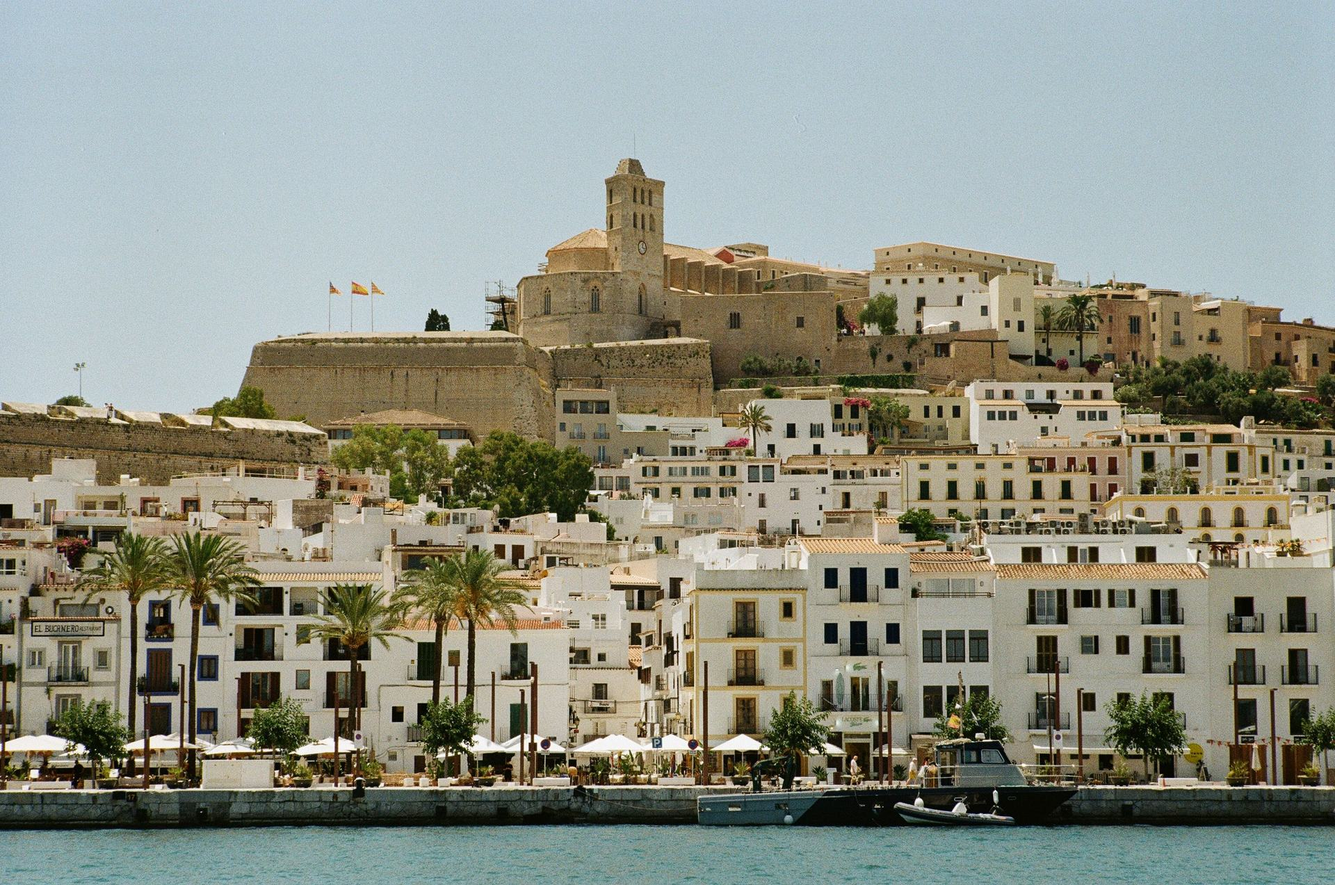
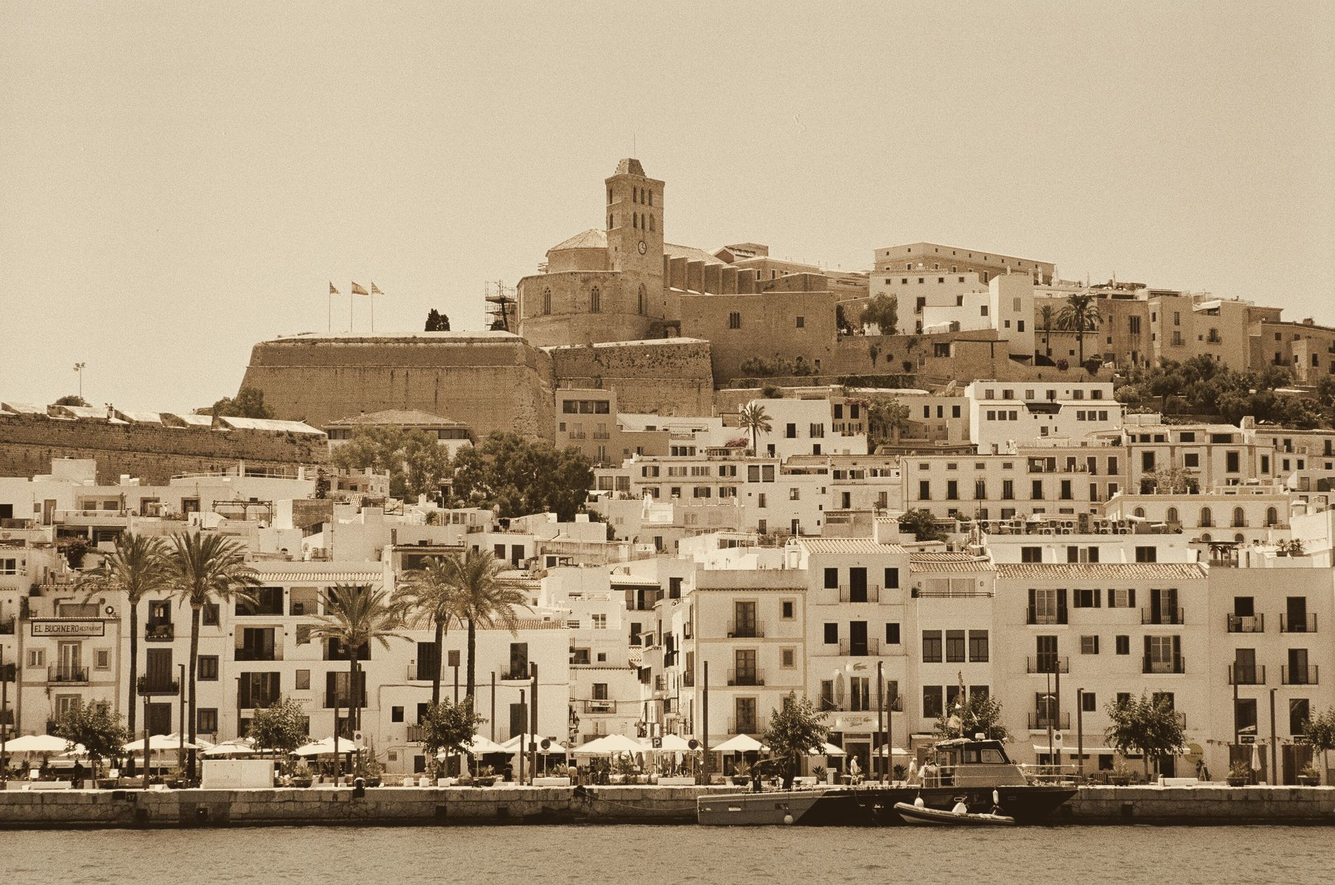
Preview: hero sepia a pantalla completa y marcas arriba

diff --git a/index.html b/index.html
@@ -119,11 +119,16 @@
   @media (max-width:520px){.navcta{display:none}}
 
   /* HERO */
-  .hero{position:relative;isolation:isolate;padding-block:96px 72px;border-bottom:1px solid var(--line-2);background:var(--paper)}
-  /* Foto de portada: Dalt Vila (trip1 Travel, Pexels). Velo arena de izquierda a derecha para leer el titular */
-  .hero::before{content:"";position:absolute;inset:0;z-index:-2;background:url("assets/hero-dalt-vila.jpg") 70% 40%/cover no-repeat}
-  .hero::after{content:"";position:absolute;inset:0;z-index:-1;background:linear-gradient(90deg,color-mix(in srgb,var(--paper) 95%,transparent) 0%,color-mix(in srgb,var(--paper) 88%,transparent) 40%,color-mix(in srgb,var(--paper) 35%,transparent) 100%)}
-  @media (max-width:820px){.hero::after{background:color-mix(in srgb,var(--paper) 86%,transparent)}}
+  /* Hero a pantalla completa: Dalt Vila (trip1 Travel, Pexels) con viraje sepia horneado en el JPG y velo oscuro.
+     Sobre la foto el texto va siempre claro, en tema claro y oscuro: tokens propios del hero */
+  .hero{--ink:#F4ECDC;--ink-soft:rgba(244,236,220,.88);--ink-faint:rgba(244,236,220,.72);--brass:#E0C48C;--line:rgba(244,236,220,.30);--line-2:rgba(244,236,220,.16);--paper:#1A130C;
+    position:relative;isolation:isolate;min-height:calc(100svh - 64px);display:flex;align-items:center;padding-block:72px;background:#1A130C;color:var(--ink)}
+  .hero > .wrap{width:100%}
+  .hero::before{content:"";position:absolute;inset:0;z-index:-2;background:url("assets/hero-dalt-vila.jpg") 65% 45%/cover no-repeat}
+  .hero::after{content:"";position:absolute;inset:0;z-index:-1;background:linear-gradient(90deg,rgba(20,13,7,.74) 0%,rgba(20,13,7,.55) 50%,rgba(20,13,7,.32) 100%),linear-gradient(0deg,rgba(20,13,7,.45) 0%,rgba(20,13,7,0) 45%)}
+  @media (max-width:820px){.hero::after{background:rgba(20,13,7,.62)}}
+  .hero .stat{background:rgba(26,19,12,.42);-webkit-backdrop-filter:blur(3px);backdrop-filter:blur(3px)}
+  .hero .stat-row{background:var(--line);border-color:var(--line)}
   .hero-grid{display:block;max-width:880px}
   .hero h1{font-size:clamp(44px,7.4vw,88px);line-height:.98;letter-spacing:-.015em}
   .hero .lede{margin-top:28px;font-size:19px;max-width:58ch}
@@ -169,6 +174,8 @@
   /* TRACK RECORD */
   .track-note{margin-top:20px;font-size:12.5px;color:var(--ink-faint)}
   /* Carruseles: la pista contiene la secuencia dos veces; se desplaza -50% para un loop sin corte */
+  .proof{padding-block:56px 64px}
+  .proof .sec-head{margin-bottom:28px}
   .marquee{overflow:hidden;-webkit-mask-image:linear-gradient(90deg,transparent,#000 5%,#000 95%,transparent);mask-image:linear-gradient(90deg,transparent,#000 5%,#000 95%,transparent)}
   .marquee-track{list-style:none;margin:0;padding:0 12px 0 0;display:flex;gap:12px;width:max-content;animation:marquee var(--dur,200s) linear infinite}
   .marquee:hover .marquee-track,.marquee:focus-within .marquee-track{animation-play-state:paused}
@@ -309,47 +316,11 @@
   </div>
   </div>
 
-  <section id="quienes">
-    <div class="wrap">
-      <div class="sec-head">
-        <p class="eyebrow" data-i18n="about.eyebrow">Quiénes somos</p>
-        <h2 data-i18n="about.title">Conocemos cada local de Ibiza: quién es el propietario, quién el inquilino y qué potencial comercial tiene.</h2>
-        <p class="lede" data-i18n="about.body">Alorac es una consultoría de real estate fundada en 2011 por Carola Nicolàs, abogada y referente del sector retail en las Islas Baleares. No trabajamos con listados públicos: operamos por conocimiento directo del mercado y discreción con cada operación.</p>
-      </div>
-    </div>
-  </section>
-
-  <section id="servicios">
-    <div class="wrap">
-      <div class="sec-head">
-        <p class="eyebrow" data-i18n="serv.eyebrow">Servicios</p>
-        <h2 data-i18n="serv.title">Un acompañamiento integral, del análisis a la firma.</h2>
-      </div>
-      <div class="pillars">
-        <div class="pillar">
-          <div class="pn">01</div>
-          <h3 data-i18n="serv.1t">Estudios de mercado</h3>
-          <p data-i18n="serv.1b">Análisis de rentabilidad, rentas medias por m² y demanda real por ubicación para decidir con datos.</p>
-        </div>
-        <div class="pillar">
-          <div class="pn">02</div>
-          <h3 data-i18n="serv.2t">Valoración de inmuebles</h3>
-          <p data-i18n="serv.2b">Estimación de valor y renta de mercado para negociar desde una posición informada.</p>
-        </div>
-        <div class="pillar">
-          <div class="pn">03</div>
-          <h3 data-i18n="serv.3t">Gestión integral</h3>
-          <p data-i18n="serv.3b">Tramitación de licencias, seguimiento de obra y red de proveedores, constructoras e industriales locales.</p>
-        </div>
-      </div>
-    </div>
-  </section>
-
-  <section id="trayectoria">
+  <section id="trayectoria" class="proof">
     <div class="wrap">
       <div class="sec-head">
         <p class="eyebrow" data-i18n="track.eyebrow">Trayectoria</p>
-        <h2 data-i18n="track.title">Marcas que han confiado en Alorac para su implantación en Ibiza.</h2>
+        <h2 data-i18n="track.title">Marcas que han confiado en Alorac</h2>
       </div>
     </div>
     <div class="marquee" aria-label="Marcas">
@@ -534,6 +505,42 @@
     </div>
   </section>
 
+  <section id="quienes">
+    <div class="wrap">
+      <div class="sec-head">
+        <p class="eyebrow" data-i18n="about.eyebrow">Quiénes somos</p>
+        <h2 data-i18n="about.title">Conocemos cada local de Ibiza: quién es el propietario, quién el inquilino y qué potencial comercial tiene.</h2>
+        <p class="lede" data-i18n="about.body">Alorac es una consultoría de real estate fundada en 2011 por Carola Nicolàs, abogada y referente del sector retail en las Islas Baleares. No trabajamos con listados públicos: operamos por conocimiento directo del mercado y discreción con cada operación.</p>
+      </div>
+    </div>
+  </section>
+
+  <section id="servicios">
+    <div class="wrap">
+      <div class="sec-head">
+        <p class="eyebrow" data-i18n="serv.eyebrow">Servicios</p>
+        <h2 data-i18n="serv.title">Un acompañamiento integral, del análisis a la firma.</h2>
+      </div>
+      <div class="pillars">
+        <div class="pillar">
+          <div class="pn">01</div>
+          <h3 data-i18n="serv.1t">Estudios de mercado</h3>
+          <p data-i18n="serv.1b">Análisis de rentabilidad, rentas medias por m² y demanda real por ubicación para decidir con datos.</p>
+        </div>
+        <div class="pillar">
+          <div class="pn">02</div>
+          <h3 data-i18n="serv.2t">Valoración de inmuebles</h3>
+          <p data-i18n="serv.2b">Estimación de valor y renta de mercado para negociar desde una posición informada.</p>
+        </div>
+        <div class="pillar">
+          <div class="pn">03</div>
+          <h3 data-i18n="serv.3t">Gestión integral</h3>
+          <p data-i18n="serv.3b">Tramitación de licencias, seguimiento de obra y red de proveedores, constructoras e industriales locales.</p>
+        </div>
+      </div>
+    </div>
+  </section>
+
   <section id="insights">
     <div class="wrap">
       <div class="sec-head">
@@ -657,7 +664,7 @@
       "serv.1t":"Estudios de mercado","serv.1b":"Análisis de rentabilidad, rentas medias por m² y demanda real por ubicación para decidir con datos.",
       "serv.2t":"Valoración de inmuebles","serv.2b":"Estimación de valor y renta de mercado para negociar desde una posición informada.",
       "serv.3t":"Gestión integral","serv.3b":"Tramitación de licencias, seguimiento de obra y red de proveedores, constructoras e industriales locales.",
-      "track.eyebrow":"Trayectoria","track.title":"Marcas que han confiado en Alorac para su implantación en Ibiza.",
+      "track.eyebrow":"Trayectoria","track.title":"Marcas que han confiado en Alorac",
       "track.note":"Los nombres se sustituirán por los logotipos oficiales de cada marca en la sesión de producción.",
       "ins.eyebrow":"La ventaja Alorac","ins.title":"Por qué las marcas líderes eligen a Alorac para entrar en Ibiza.",
       "ins.intro":"No competimos por listados ni por precio. Competimos por conocimiento directo del mercado y acceso a los locales que importan.",
@@ -696,7 +703,7 @@
       "serv.1t":"Market studies","serv.1b":"Yield analysis, average rents per m² and real demand by location, so you decide with data.",
       "serv.2t":"Property valuation","serv.2b":"Value and market-rent estimates so you negotiate from an informed position.",
       "serv.3t":"Full management","serv.3b":"Licensing, works supervision and a network of local suppliers, builders and contractors.",
-      "track.eyebrow":"Track record","track.title":"Brands that have trusted Alorac to open in Ibiza.",
+      "track.eyebrow":"Track record","track.title":"Brands that have trusted Alorac",
       "track.note":"Brand names will be replaced with official logos during the production session.",
       "ins.eyebrow":"The Alorac edge","ins.title":"Why leading brands choose Alorac to enter Ibiza.",
       "ins.intro":"We don't compete on listings or price. We compete on direct market knowledge and access to the units that matter.",
@@ -735,7 +742,7 @@
       "serv.1t":"Marktstudien","serv.1b":"Renditeanalyse, durchschnittliche Mieten pro m² und reale Nachfrage je Lage — damit Sie mit Daten entscheiden.",
       "serv.2t":"Immobilienbewertung","serv.2b":"Wert- und Marktmietschätzung, damit Sie aus einer informierten Position verhandeln.",
       "serv.3t":"Komplette Betreuung","serv.3b":"Genehmigungen, Baubegleitung und ein Netz lokaler Dienstleister, Bauunternehmen und Handwerker.",
-      "track.eyebrow":"Referenzen","track.title":"Marken, die Alorac ihre Ansiedlung in Ibiza anvertraut haben.",
+      "track.eyebrow":"Referenzen","track.title":"Marken, die Alorac vertrauen",
       "track.note":"Die Markennamen werden in der Produktionssitzung durch die offiziellen Logos ersetzt.",
       "ins.eyebrow":"Der Alorac-Vorteil","ins.title":"Warum führende Marken für den Eintritt in Ibiza auf Alorac setzen.",
       "ins.intro":"Wir konkurrieren nicht über Listings oder Preis, sondern über direkte Marktkenntnis und Zugang zu den Flächen, die zählen.",
